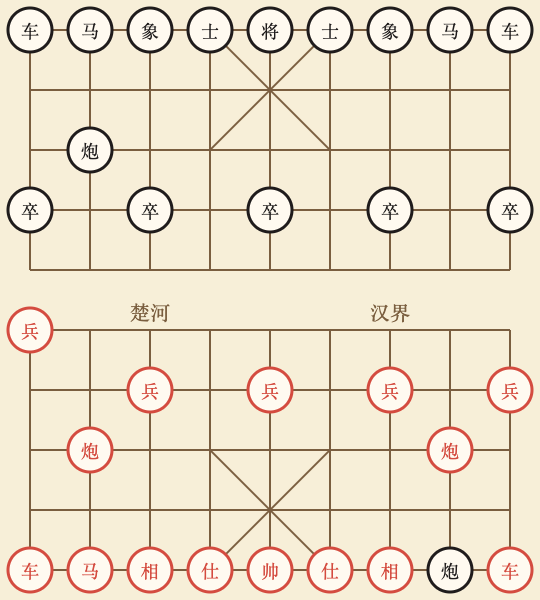
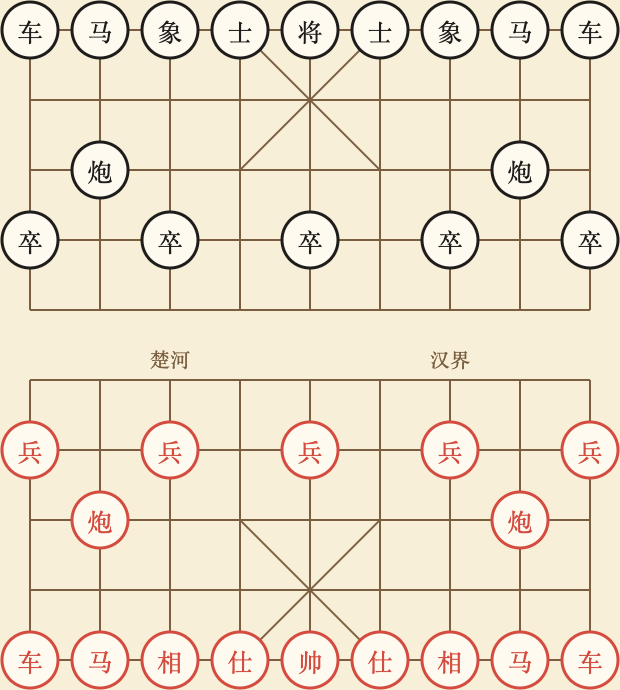
feat: 优化中国象棋游戏
- 改进游戏逻辑和交互
- 优化UI布局和样式
- 添加音效支持

Changed region(s): [[0.0, 0.51, 1.0, 1.0], [0.0, 0.0, 1.0, 0.45], [0.5333, 0.18, 0.563, 0.21]]

diff --git a/chinese-chess/index.html b/chinese-chess/index.html
@@ -17,7 +17,7 @@
             --ink: #2f2b2b;
             --red: #d44b3f;
             --black: #1f1c1c;
-            --accent: #8d6e63;
+            --accent: #b89a7a;
         }
         * {
             box-sizing: border-box;
@@ -39,14 +39,14 @@
             display: flex;
             justify-content: center;
             align-items: center;
-            padding: env(safe-area-inset-top) 10px env(safe-area-inset-bottom) 10px;
+            padding: env(safe-area-inset-top) 6px env(safe-area-inset-bottom) 6px;
         }
         .game-shell {
-            width: min(640px, 96vw);
+            width: min(720px, 98vw);
             background: rgba(255, 255, 255, 0.92);
-            border-radius: 18px;
+            border-radius: 16px;
             box-shadow: 0 20px 50px rgba(53, 30, 20, 0.25);
-            padding: 14px;
+            padding: 8px;
             text-align: center;
         }
         h1 {
@@ -55,30 +55,30 @@
             letter-spacing: 2px;
         }
         .status {
-            font-size: 13px;
+            font-size: 12px;
             background: var(--paper);
             border-radius: 12px;
-            padding: 6px 10px;
-            margin-bottom: 8px;
-            min-height: 22px;
+            padding: 5px 8px;
+            margin-bottom: 6px;
+            min-height: 20px;
         }
         .controls {
             display: flex;
             flex-wrap: wrap;
-            gap: 8px;
+            gap: 6px;
             justify-content: center;
-            margin-bottom: 10px;
+            margin-bottom: 6px;
         }
         .control-group {
             background: var(--paper);
-            padding: 6px 10px;
+            padding: 5px 8px;
             border-radius: 12px;
             display: flex;
             flex-direction: column;
-            gap: 6px;
+            gap: 4px;
         }
         .control-label {
-            font-size: 11px;
+            font-size: 10px;
             color: #6b5e4b;
         }
         .btn-row {
@@ -89,8 +89,8 @@
             border: 2px solid var(--paper-dark);
             background: #fff;
             color: #6b5e4b;
-            padding: 4px 10px;
-            font-size: 12px;
+            padding: 3px 9px;
+            font-size: 11px;
             border-radius: 999px;
             cursor: pointer;
             transition: all 0.2s;
@@ -104,13 +104,13 @@
             display: flex;
             gap: 8px;
             justify-content: center;
-            margin-top: 6px;
+            margin-top: 4px;
         }
         .action-btns button {
             border: none;
             border-radius: 999px;
-            padding: 8px 18px;
-            font-size: 12px;
+            padding: 6px 16px;
+            font-size: 11px;
             cursor: pointer;
             background: var(--ink);
             color: #fff;
@@ -121,7 +121,7 @@
             transform: scale(0.96);
         }
         #gameCanvas {
-            width: min(100%, 540px);
+            width: 100%;
             height: auto;
             display: block;
             margin: 0 auto;
@@ -133,8 +133,8 @@
         .legend {
             display: flex;
             justify-content: space-between;
-            margin-top: 8px;
-            font-size: 11px;
+            margin-top: 6px;
+            font-size: 10px;
             color: #6b5e4b;
         }
         .legend span {
@@ -180,7 +180,7 @@
                 font-size: 18px;
             }
             .controls {
-                gap: 6px;
+                gap: 4px;
             }
         }
     </style>
@@ -196,14 +196,12 @@
         <div class="status" id="status">点击开始新局</div>
         <div class="controls">
             <div class="control-group">
-                <div class="control-label">对战模式</div>
                 <div class="btn-row" id="modeBtns">
                     <button class="pill-btn active" data-mode="ai">人机对战</button>
                     <button class="pill-btn" data-mode="pvp">人人对战</button>
                 </div>
             </div>
             <div class="control-group">
-                <div class="control-label">AI 难度</div>
                 <div class="btn-row" id="difficultyBtns">
                     <button class="pill-btn active" data-level="easy">入门</button>
                     <button class="pill-btn" data-level="medium">进阶</button>
@@ -211,10 +209,11 @@
                 </div>
             </div>
         </div>
-        <canvas id="gameCanvas" width="540" height="600"></canvas>
+        <canvas id="gameCanvas" width="620" height="690"></canvas>
         <div class="action-btns">
             <button id="startBtn">开始新局</button>
             <button id="resetBtn">重开本局</button>
+            <button id="undoBtn">悔棋</button>
         </div>
         <div class="legend">
             <span><span class="legend-dot red"></span>红方先行</span>

diff --git a/chinese-chess/game.js b/chinese-chess/game.js
@@ -3,13 +3,17 @@ const ctx = canvas.getContext('2d');
 const statusEl = document.getElementById('status');
 const startBtn = document.getElementById('startBtn');
 const resetBtn = document.getElementById('resetBtn');
+const undoBtn = document.getElementById('undoBtn');
 const modeBtns = document.getElementById('modeBtns');
 const difficultyBtns = document.getElementById('difficultyBtns');
 
 const COLS = 9;
 const ROWS = 10;
-const CELL_SIZE = 60;
+const CELL_SIZE = 70;
 const PADDING = 30;
+const PIECE_RADIUS = Math.round(CELL_SIZE * 0.4);
+const SELECT_RADIUS = PIECE_RADIUS + 5;
+const MOVE_DOT_RADIUS = Math.max(7, Math.round(CELL_SIZE * 0.13));
 
 const COLORS = {
     red: '#d44b3f',
@@ -49,6 +53,8 @@ let gameMode = 'ai';
 let difficulty = 'easy';
 const humanColor = 'red';
 const aiColor = 'black';
+let moveHistory = [];
+let aiTimeoutId = null;
 
 function initBoard() {
     const emptyRow = () => Array.from({ length: COLS }, () => null);
@@ -81,6 +87,7 @@ function resetGame(keepMode = true) {
     gameOver = false;
     winner = null;
     aiThinking = false;
+    moveHistory = [];
     if (gameMode === 'ai' && currentPlayer === aiColor) {
         aiThinking = true;
     }
@@ -206,12 +213,12 @@ function drawPieces() {
             ctx.fillStyle = '#fffaf0';
             ctx.strokeStyle = piece.color === 'red' ? COLORS.red : COLORS.black;
             ctx.lineWidth = 3;
-            ctx.arc(cx, cy, 22, 0, Math.PI * 2);
+            ctx.arc(cx, cy, PIECE_RADIUS, 0, Math.PI * 2);
             ctx.fill();
             ctx.stroke();
 
             ctx.fillStyle = piece.color === 'red' ? COLORS.red : COLORS.black;
-            ctx.font = '18px "KaiTi", "STKaiti", serif';
+            ctx.font = `${Math.round(CELL_SIZE * 0.36)}px "KaiTi", "STKaiti", serif`;
             ctx.textAlign = 'center';
             ctx.textBaseline = 'middle';
             ctx.fillText(PIECE_SYMBOLS[piece.color][piece.type], cx, cy + 1);
@@ -229,7 +236,7 @@ function drawSelection() {
     ctx.strokeStyle = '#f7b731';
     ctx.lineWidth = 3;
     ctx.beginPath();
-    ctx.arc(cx, cy, 26, 0, Math.PI * 2);
+    ctx.arc(cx, cy, SELECT_RADIUS, 0, Math.PI * 2);
     ctx.stroke();
 
     legalMoves.forEach(move => {
@@ -237,7 +244,7 @@ function drawSelection() {
         const my = PADDING + move.y * CELL_SIZE;
         ctx.fillStyle = 'rgba(90, 153, 122, 0.6)';
         ctx.beginPath();
-        ctx.arc(mx, my, 8, 0, Math.PI * 2);
+        ctx.arc(mx, my, MOVE_DOT_RADIUS, 0, Math.PI * 2);
         ctx.fill();
     });
 }
@@ -617,8 +624,16 @@ function chooseAIMove() {
 }
 
 function handleMove(fromX, fromY, toX, toY) {
-    const target = board[toY][toX];
-    makeMove(fromX, fromY, toX, toY);
+    const prevPlayer = currentPlayer;
+    const target = makeMove(fromX, fromY, toX, toY);
+    moveHistory.push({
+        fromX,
+        fromY,
+        toX,
+        toY,
+        captured: target,
+        prevPlayer
+    });
 
     if (target && target.type === 'G') {
         gameOver = true;
@@ -653,9 +668,13 @@ function handleMove(fromX, fromY, toX, toY) {
 function triggerAIMove() {
     aiThinking = true;
     updateStatus();
-    setTimeout(() => {
+    if (aiTimeoutId) {
+        clearTimeout(aiTimeoutId);
+    }
+    aiTimeoutId = setTimeout(() => {
         const move = chooseAIMove();
         aiThinking = false;
+        aiTimeoutId = null;
         if (!move) {
             gameOver = true;
             winner = humanColor;
@@ -665,6 +684,42 @@ function triggerAIMove() {
         }
         handleMove(move.fromX, move.fromY, move.toX, move.toY);
     }, 200);
+}
+
+function undoSingleHistoryMove() {
+    const last = moveHistory.pop();
+    if (!last) return false;
+    const moving = board[last.toY][last.toX];
+    board[last.fromY][last.fromX] = moving;
+    board[last.toY][last.toX] = last.captured || null;
+    currentPlayer = last.prevPlayer;
+    return true;
+}
+
+function undoLastAction() {
+    if (!gameRunning || moveHistory.length === 0) return;
+    if (aiTimeoutId) {
+        clearTimeout(aiTimeoutId);
+        aiTimeoutId = null;
+    }
+    aiThinking = false;
+
+    let steps = 1;
+    if (gameMode === 'ai' && currentPlayer === humanColor && moveHistory.length >= 2) {
+        steps = 2;
+    }
+
+    for (let i = 0; i < steps; i++) {
+        if (!undoSingleHistoryMove()) break;
+    }
+
+    gameOver = false;
+    winner = null;
+    selected = null;
+    legalMoves = [];
+    const check = isInCheck(currentPlayer);
+    updateStatus(check ? '（被将军）' : '');
+    draw();
 }
 
 function handleBoardClick(evt) {
@@ -715,6 +770,10 @@ startBtn.addEventListener('click', () => {
 
 resetBtn.addEventListener('click', () => {
     resetGame();
+});
+
+undoBtn.addEventListener('click', () => {
+    undoLastAction();
 });
 
 modeBtns.addEventListener('click', evt => {

diff --git a/chinese-chess/progress.md b/chinese-chess/progress.md
@@ -1,3 +1,9 @@
 Original prompt: 增加一个中国象棋游戏，难度可选，可 AI，可人机
 
 - 2026-02-03: Added Chinese chess game with AI (3 difficulty levels), PvP mode, and core move rules.
+- 2026-02-03: Enlarged board and tightened layout to reduce whitespace; scaled piece sizes with cell size.
+- 2026-02-03: Increased piece and glyph sizes for easier interaction and readability.
+- 2026-02-03: Increased piece label font size further for readability.
+- 2026-02-03: Lightened board border color for a softer edge.
+- 2026-02-03: Removed control labels and added undo support (including AI rollback behavior).
+- 2026-02-03: Re-removed control labels and reimplemented undo with fixed AI turn handling and history stack.
